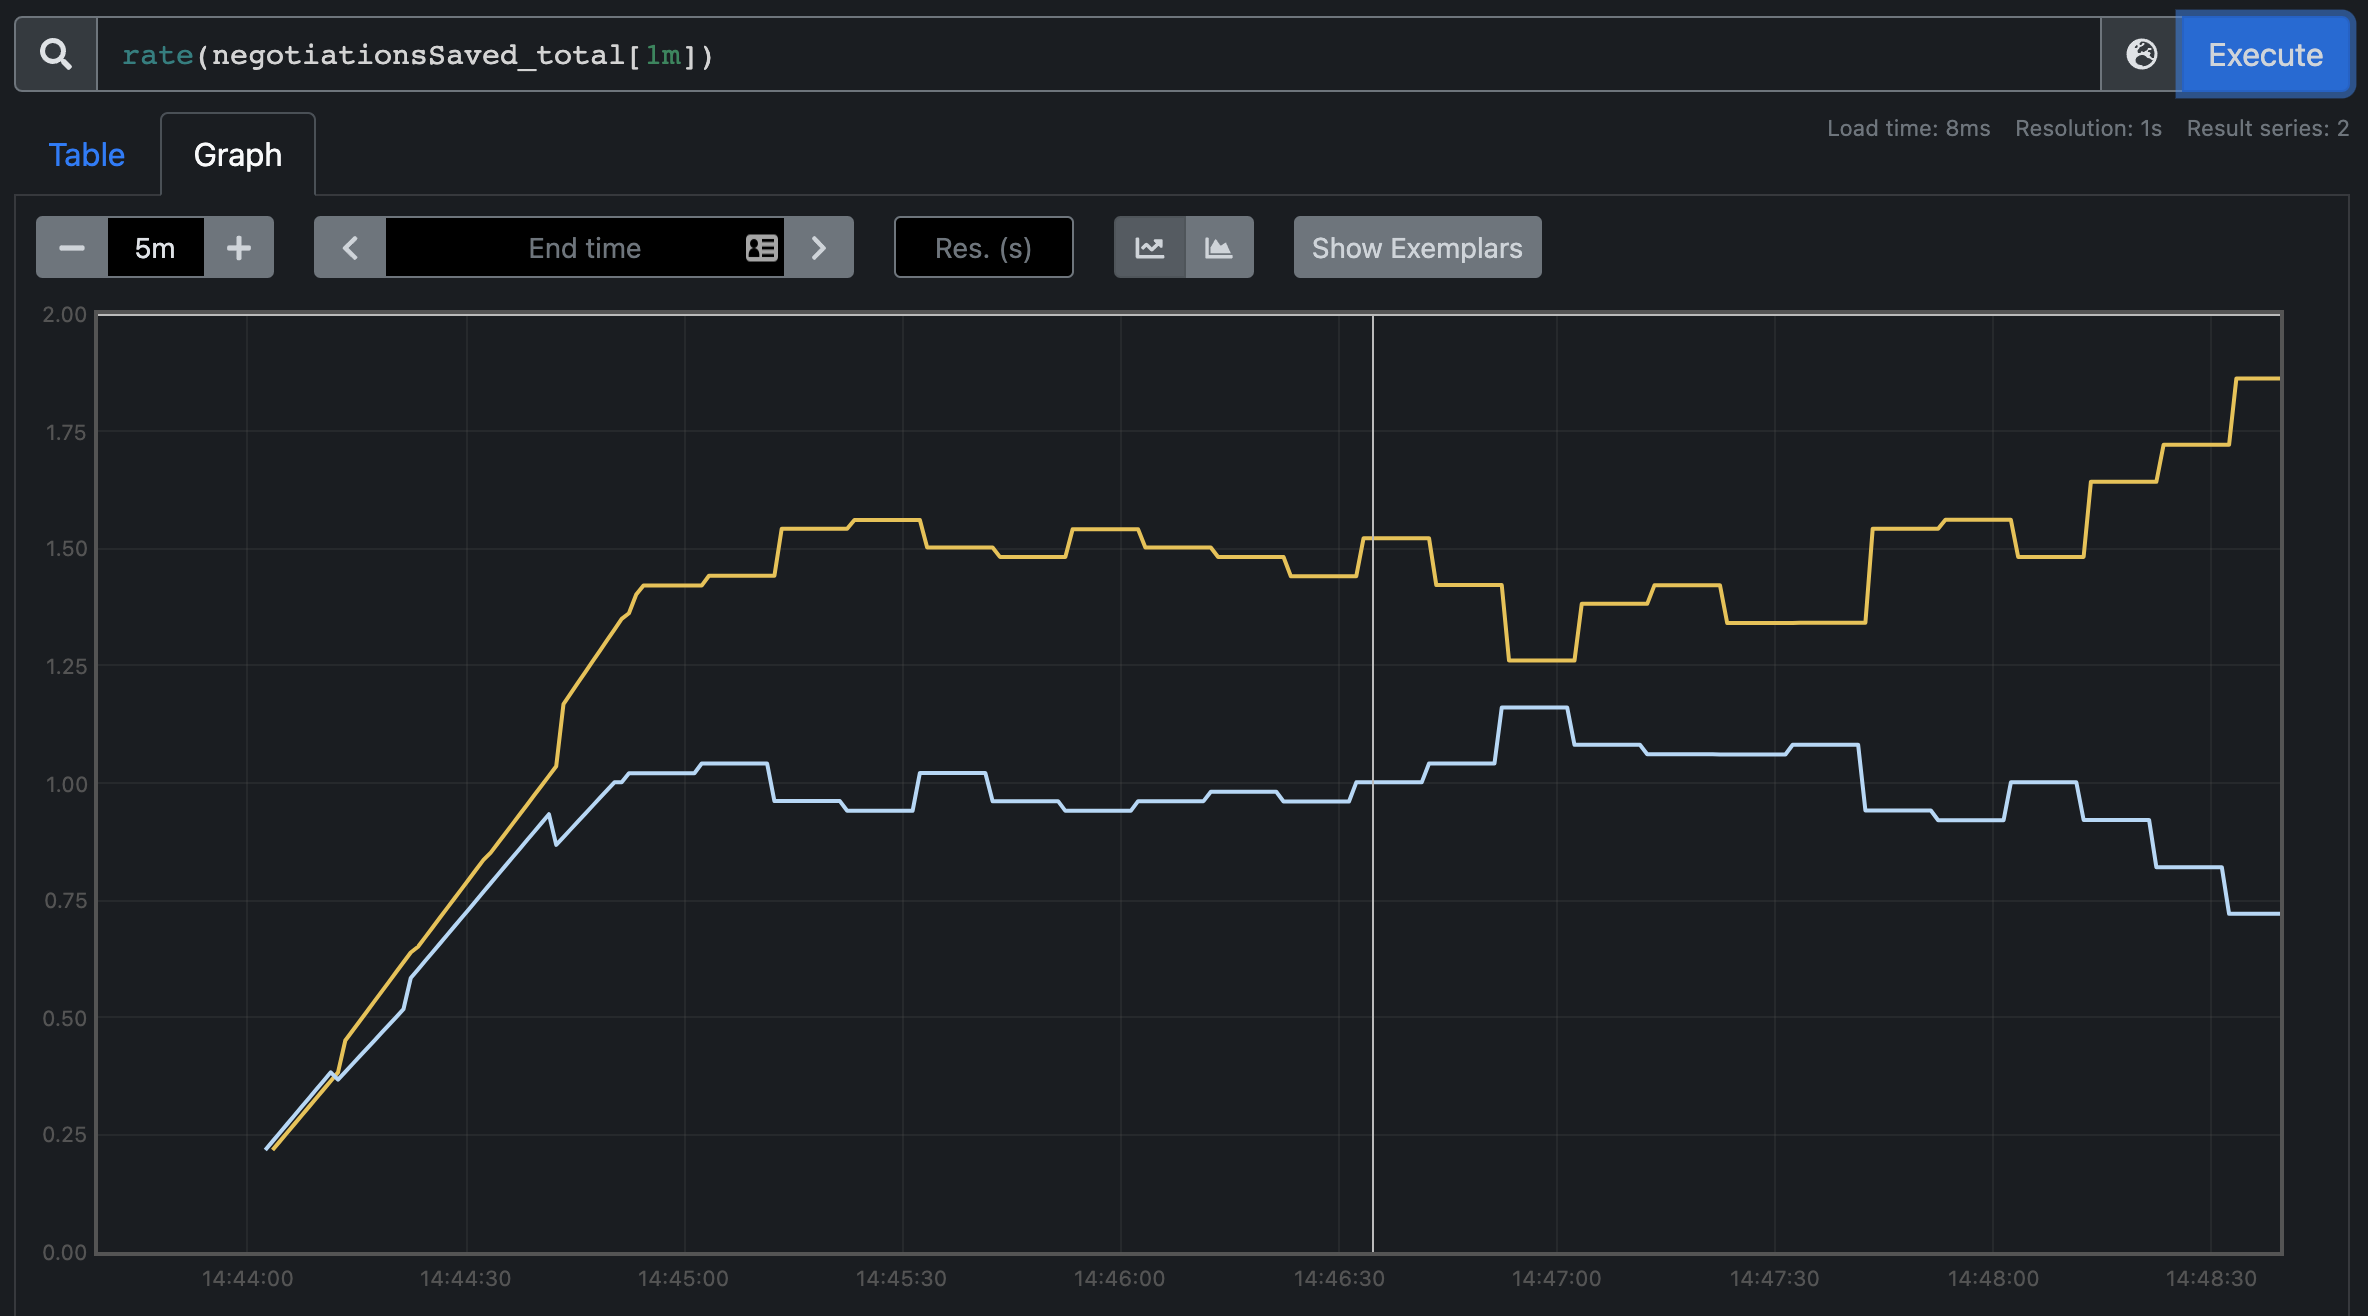
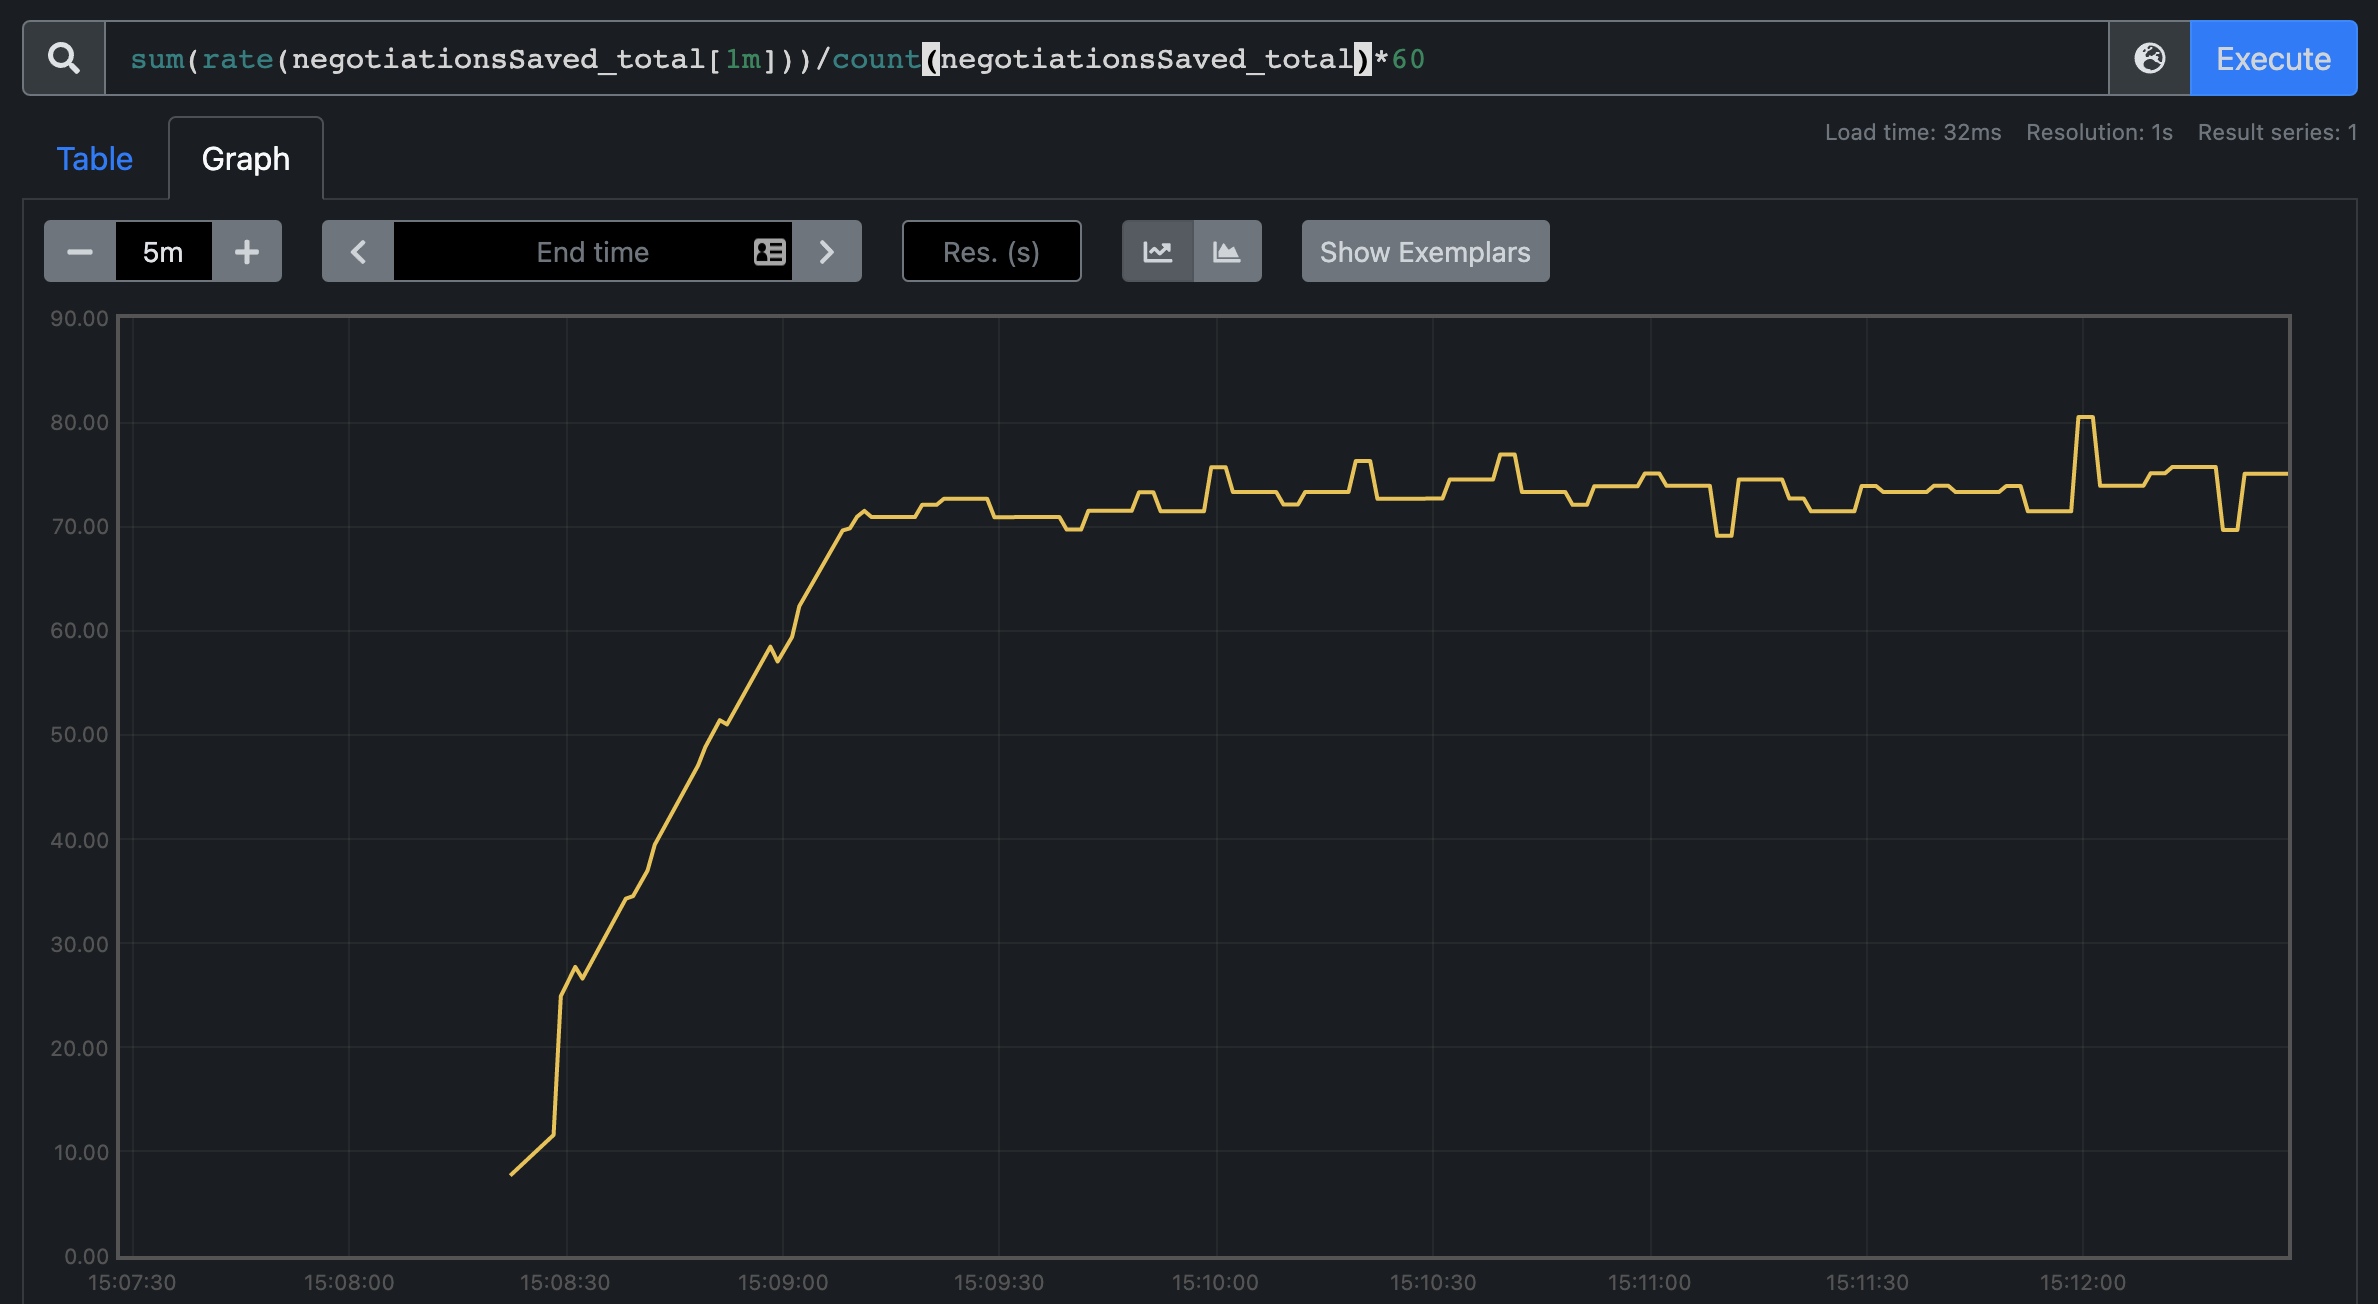
Improve screenshots

diff --git a/METRICS.md b/METRICS.md
@@ -37,7 +37,7 @@ Monitor the metrics in [metrics explorer](https://docs.microsoft.com/en-us/azure
 
 Go to [http://localhost:9090](http://localhost:9090) and browse metrics.
 
-Example: [query number of save operations per second as measured over the last minute](http://localhost:9090/graph?g0.expr=rate(negotiationsSaved_total%5B1m%5D)&g0.tab=0&g0.stacked=0&g0.show_exemplars=0&g0.range_input=15m).
+Example: [query number of save operations per minute as measured over the last minute](http://localhost:9090/graph?g0.expr=sum(rate(negotiationsSaved_total%5B1m%5D))%2Fcount(negotiationsSaved_total)*60&g0.tab=0&g0.stacked=0&g0.show_exemplars=0&g0.range_input=5m).
 
 ![Prometheus metric](.attachments/prometheus.png)
 
